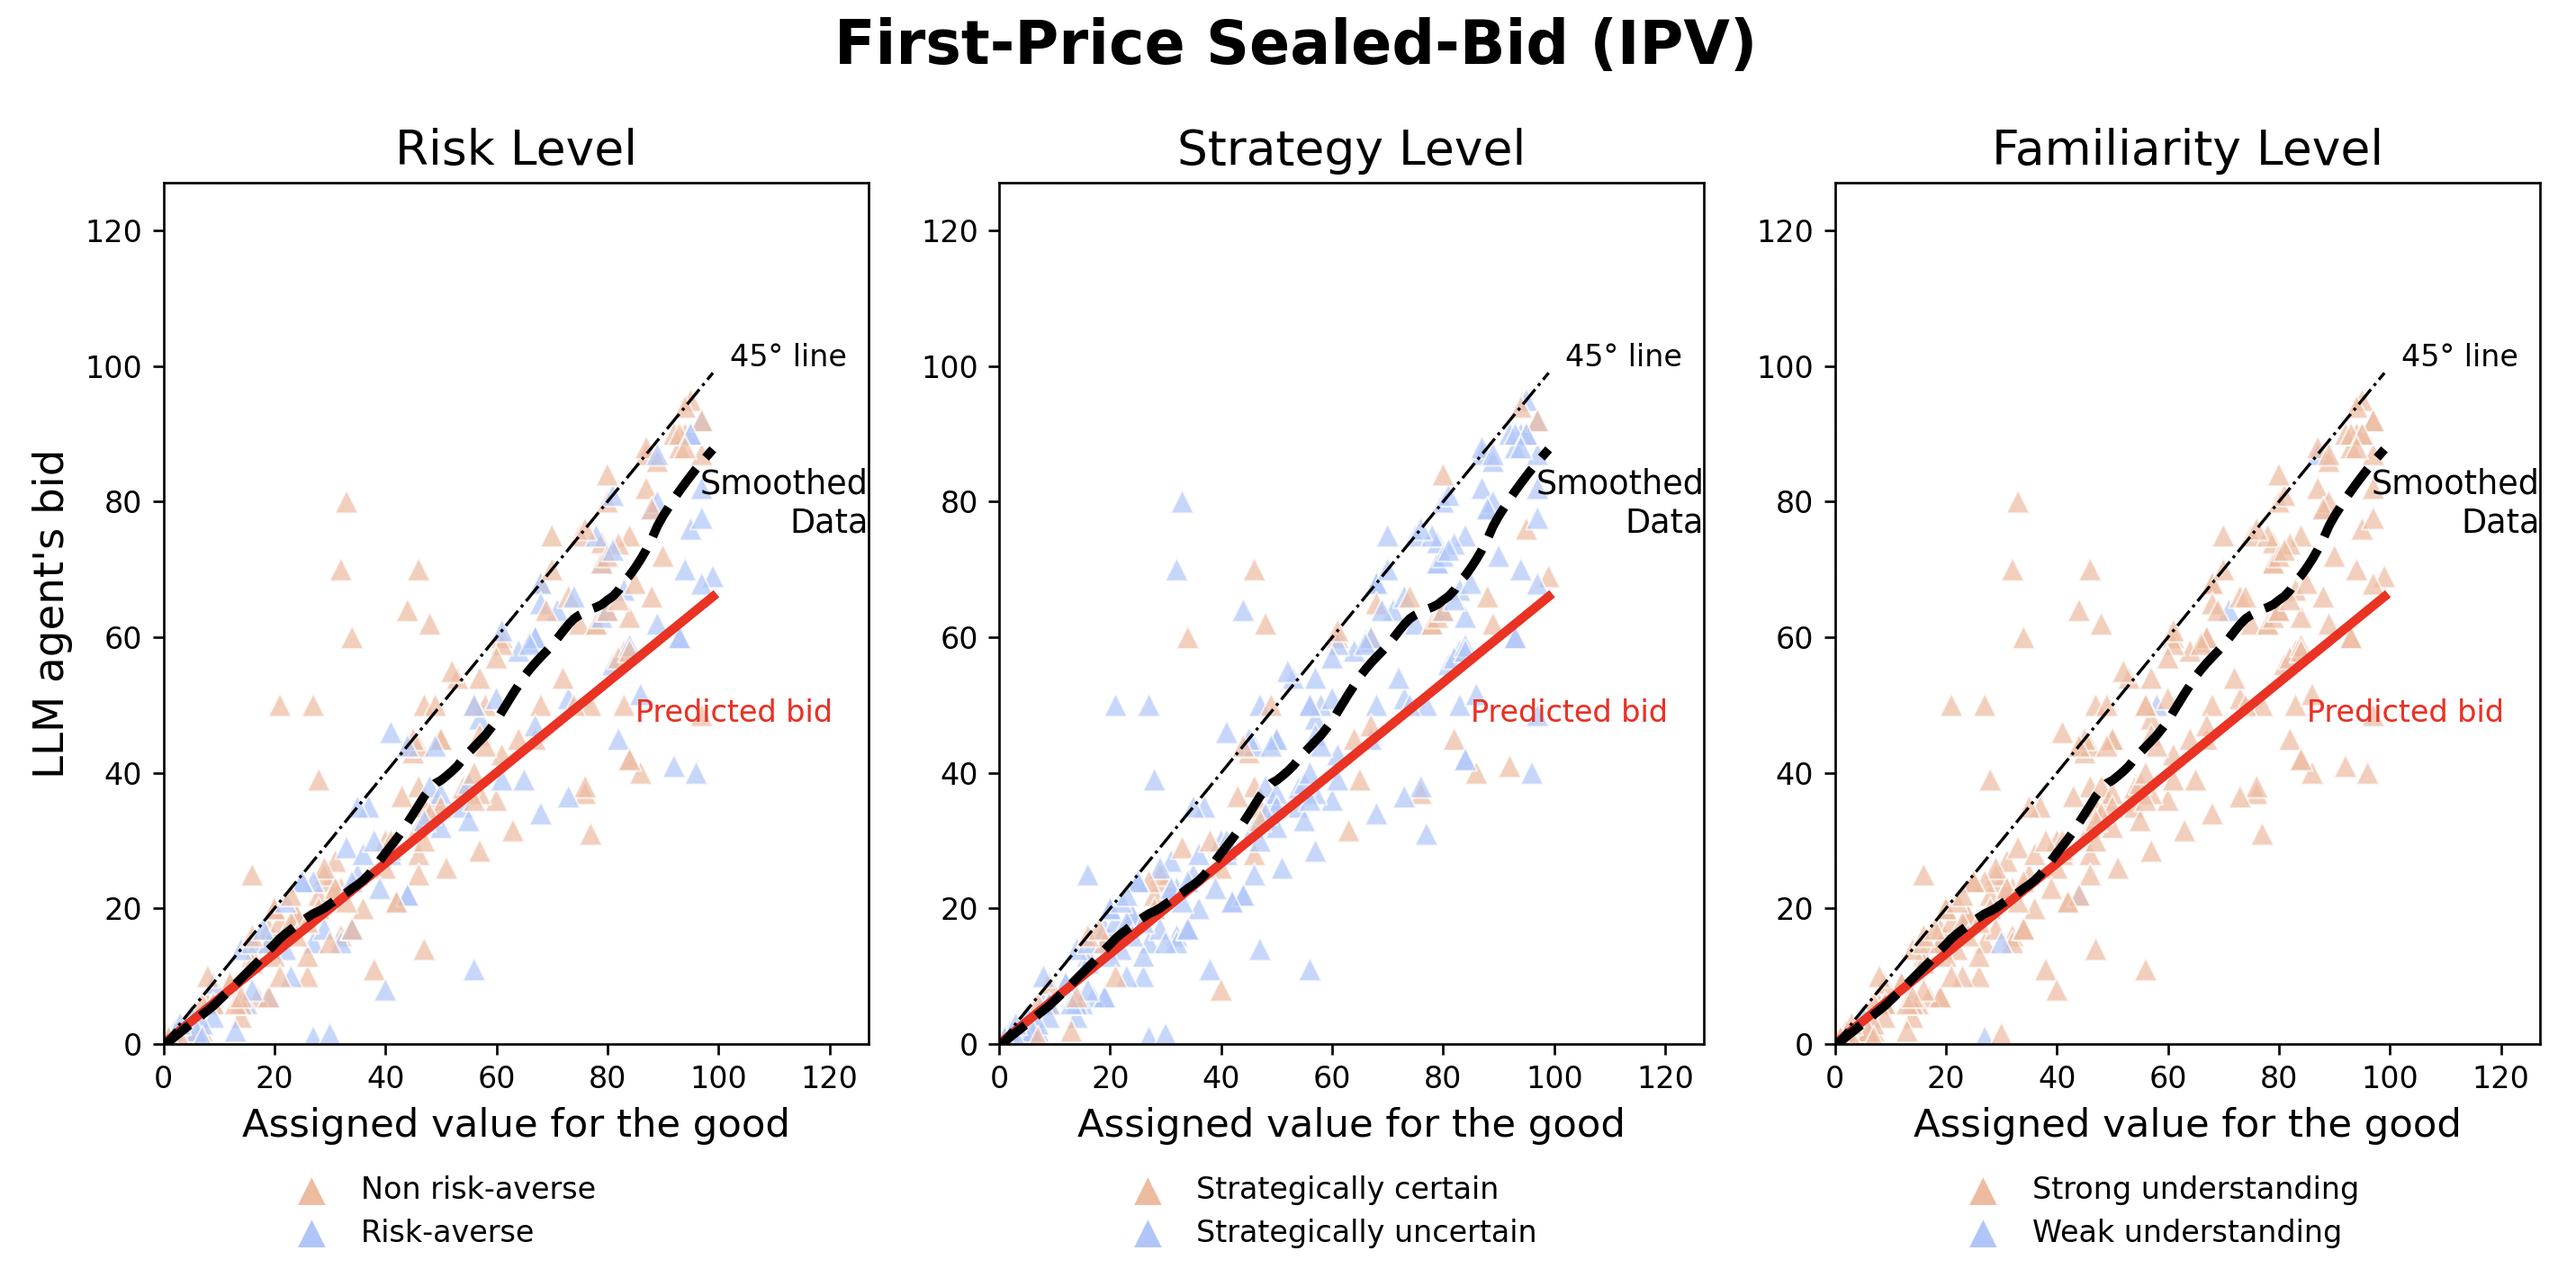
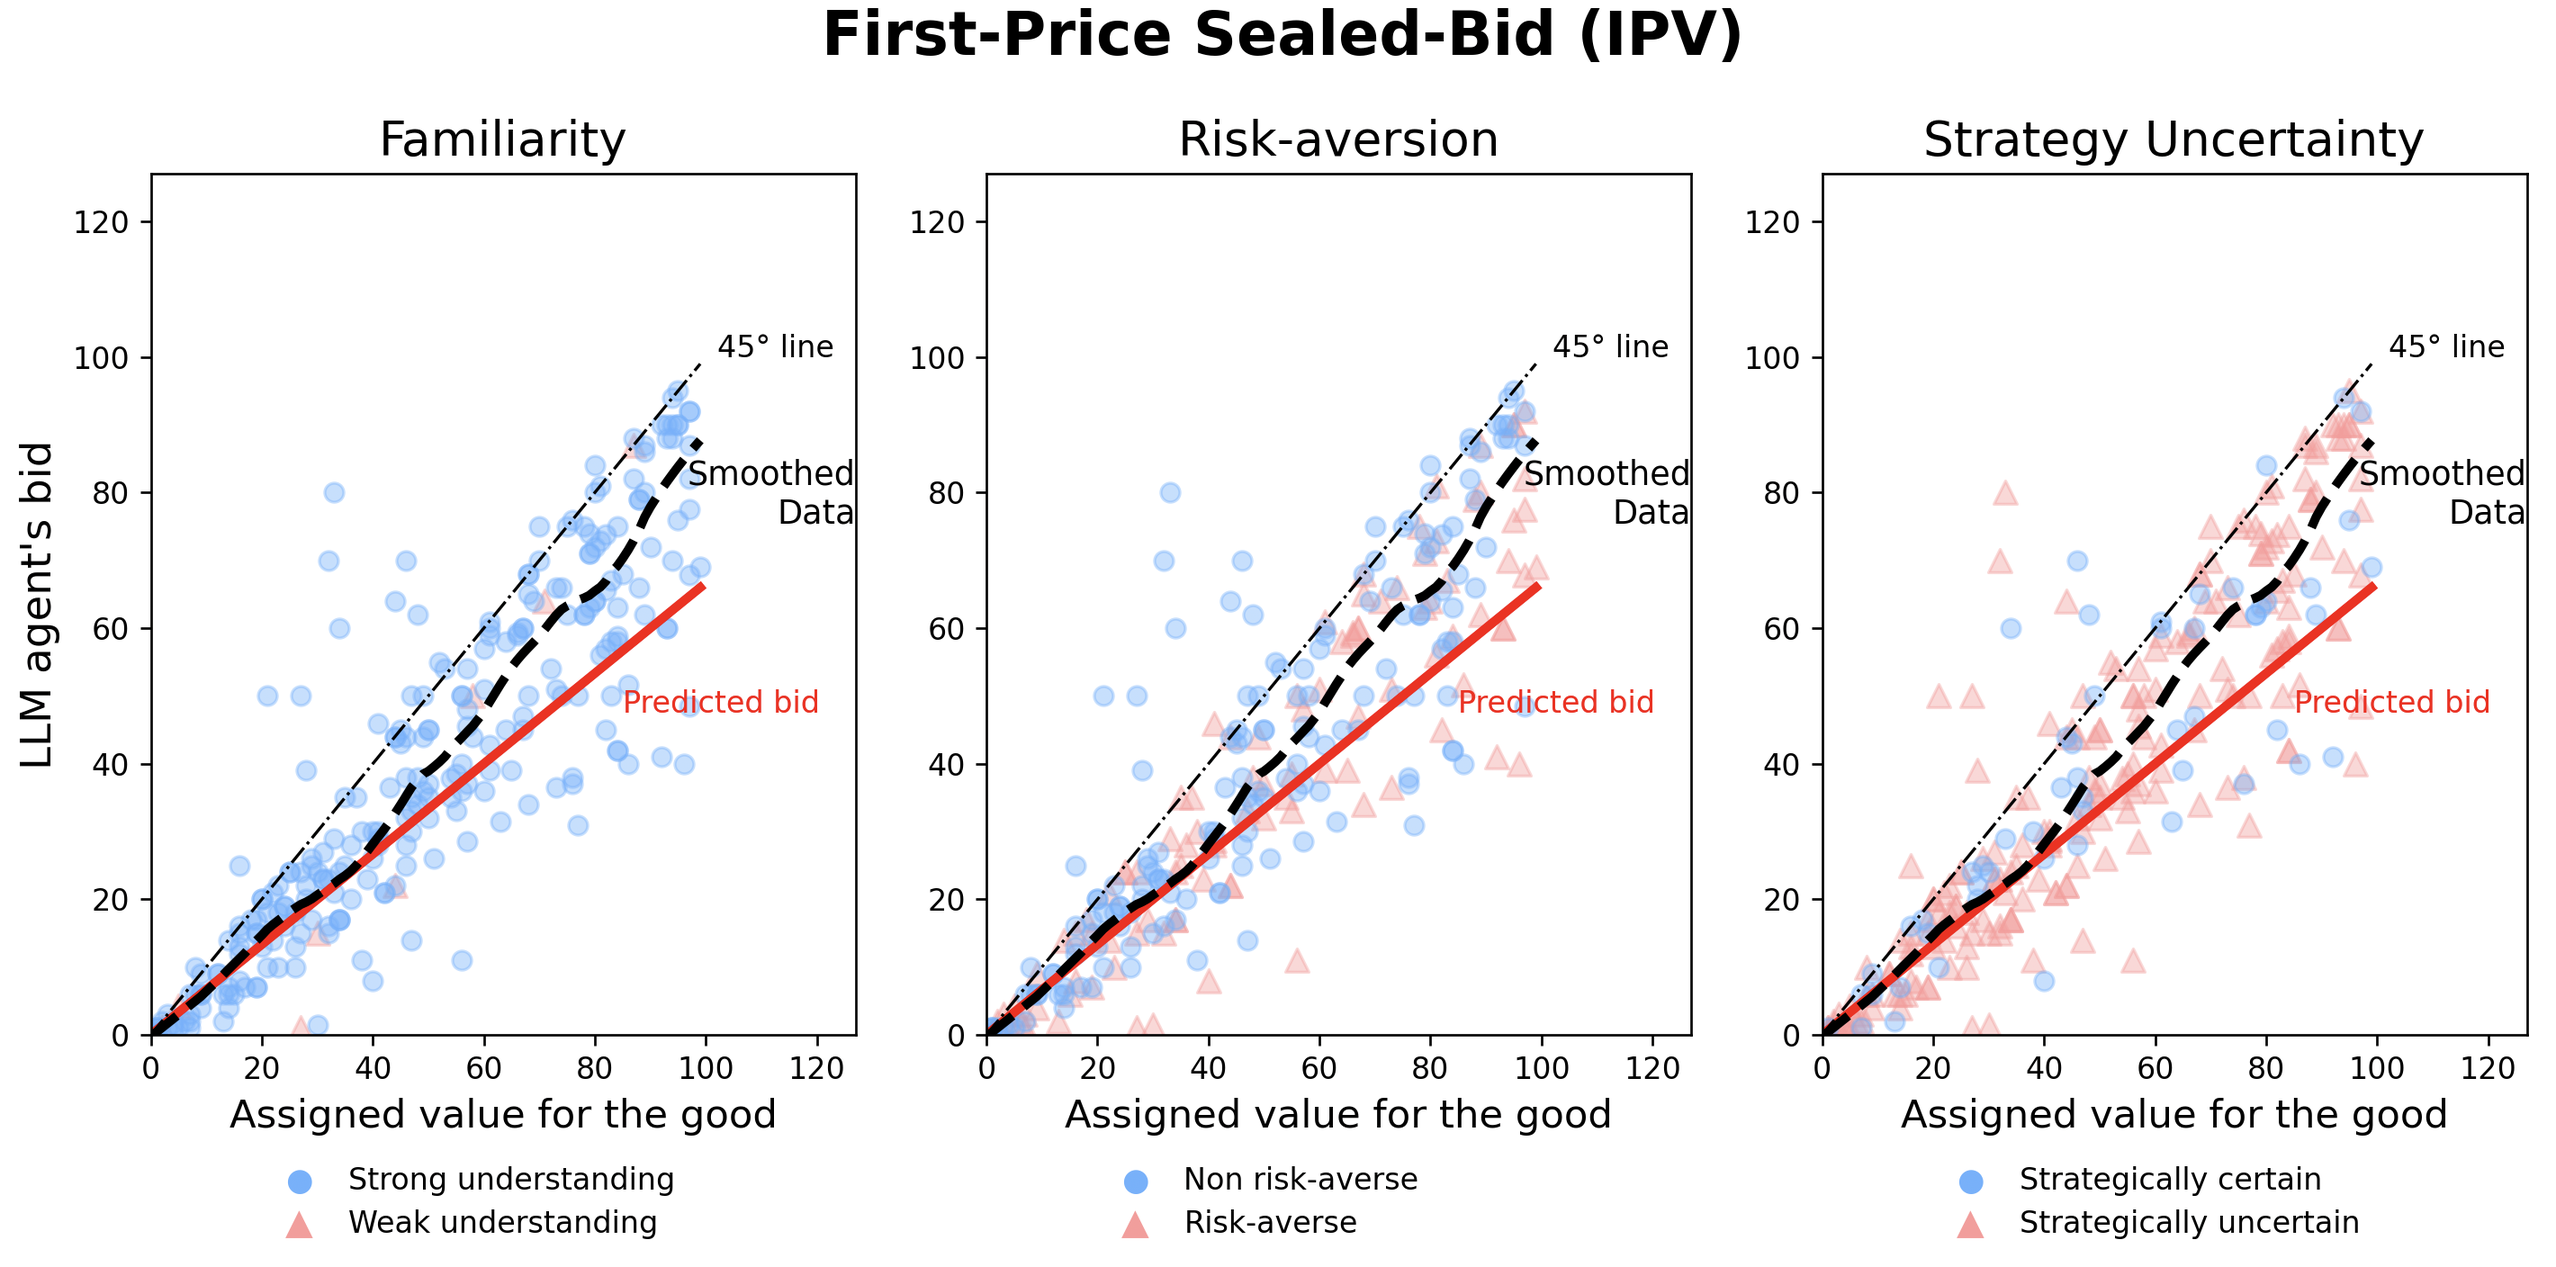
update the semantics

diff --git a/results/Plan_reflection/semantic_plots.py b/results/Plan_reflection/semantic_plots.py
@@ -7,8 +7,14 @@ import matplotlib.patheffects as path_effects
 
 def create_scatter(ax, df, x_col, y_col, color_col, title, show_y_axis=True):
     # Create scatter plot
-    scatter = sb.scatterplot(ax=ax, x=df[x_col], y=df[y_col], hue=df[color_col],
-                             palette="coolwarm", legend=False, alpha=0.7, marker='^', s=60)
+    colors = ['#FF9999', '#66B2FF']  # Light red for 0, Light blue for 1
+    # scatter = sb.scatterplot(ax=ax, x=df[x_col], y=df[y_col], hue=df[color_col],
+    #                          palette="coolwarm", legend=False, alpha=0.7, marker='^', s=60)
+    scatter_0 = ax.scatter(df[df[color_col] == 0][x_col], df[df[color_col] == 0][y_col], 
+                           c=colors[0], marker='^', s=60, alpha=0.4)
+    scatter_1 = ax.scatter(df[df[color_col] == 1][x_col], df[df[color_col] == 1][y_col], 
+                           c=colors[1], marker='o', s=40, alpha=0.4)
+    
     
     # Add NE line (y = 2/3 * x) in red
     x_vals = np.linspace(df[x_col].min(), df[x_col].max(), 100)
@@ -52,14 +58,14 @@ def create_scatter(ax, df, x_col, y_col, color_col, title, show_y_axis=True):
         legend_text_right = 'Strong understanding'
     
     # Use color_palette to get the correct colors
-    colors = sb.color_palette("coolwarm", 2)
+    # colors = sb.color_palette("coolwarm", 2)
     
     # Add colored text for legend
     # ax.text(0.5, -0.15, legend_text, transform=ax.transAxes, ha='center', va='center', fontsize=10)
 
     
     # Add colored triangles and text for legend in two rows
-    triangle_size = 60
+    triangle_size = 40
     square_size  = 12
     y_positions = [-0.22, -0.17]  # Positions for two rows
     
@@ -72,16 +78,17 @@ def create_scatter(ax, df, x_col, y_col, color_col, title, show_y_axis=True):
             ha='right', va='center', fontsize=square_size)
     
     # Second row (right item)
-    ax.scatter([0.25], [y_positions[1]], c=[colors[1]], marker='^', s=triangle_size, 
+    ax.scatter([0.25], [y_positions[1]], c=[colors[1]], marker='*', s=triangle_size, 
                transform=ax.transAxes)
     ax.text(0.28, y_positions[1], legend_text_right, transform=ax.transAxes, 
             ha='left', va='center', fontsize=10)
-    ax.text(0.23, y_positions[1], '▲', color=colors[1], transform=ax.transAxes, 
-            ha='right', va='center', fontsize=square_size)
+    ax.text(0.23, y_positions[1], '●', color=colors[1], transform=ax.transAxes, 
+            ha='right', va='center', fontsize=square_size-1.5)
 
-    return scatter
+    # return scatter
+    return scatter_0, scatter_1
 
-plot_type = 'SPSB' # Change to SPSB if you want SPSB plots.
+plot_type = 'FPSB' # Change to SPSB if you want SPSB plots.
 
 # Load the data
 binary_results = pd.read_csv('binary_results.csv')
@@ -101,13 +108,13 @@ main_title = 'First-Price Sealed-Bid (IPV)' if plot_type == 'FPSB' else 'Second-
 fig.suptitle(main_title, fontsize=20, fontweight='bold')
 
 if plot_type == 'FPSB':
-    create_scatter(axs[0], fpsb_df, 'Value', 'Bid', 'risk2', 'Risk Level', show_y_axis=True)
-    create_scatter(axs[1], fpsb_df, 'Value', 'Bid', 'strategy2', 'Strategy Level', show_y_axis=False)
-    create_scatter(axs[2], fpsb_df, 'Value', 'Bid', 'understand2', 'Familiarity Level', show_y_axis=False)
+    create_scatter(axs[0], fpsb_df, 'Value', 'Bid', 'understand2', 'Familiarity', show_y_axis=True)
+    create_scatter(axs[1], fpsb_df, 'Value', 'Bid', 'risk2', 'Risk-aversion', show_y_axis=False)
+    create_scatter(axs[2], fpsb_df, 'Value', 'Bid', 'strategy2', 'Strategy Uncertainty', show_y_axis=False)
 else:
-    create_scatter(axs[0], fpsb_df, 'Value', 'Bid', 'risk2', 'Risk Level', show_y_axis=True)
-    create_scatter(axs[1], fpsb_df, 'Value', 'Bid', 'strategy2', 'Strategy Level', show_y_axis=False)
-    create_scatter(axs[2], fpsb_df, 'Value', 'Bid', 'understand2', 'Familiarity Level', show_y_axis=False)
+    create_scatter(axs[0], fpsb_df, 'Value', 'Bid', 'understand2', 'Familiarity', show_y_axis=True)
+    create_scatter(axs[1], fpsb_df, 'Value', 'Bid', 'risk2', 'Risk-aversion', show_y_axis=False)
+    create_scatter(axs[2], fpsb_df, 'Value', 'Bid', 'strategy2', 'Strategy Uncertainty', show_y_axis=False)
 
 plt.tight_layout(rect=[0, 0.01, 1, 0.99])  # Adjust layout to accommodate main title
 plt.show()
